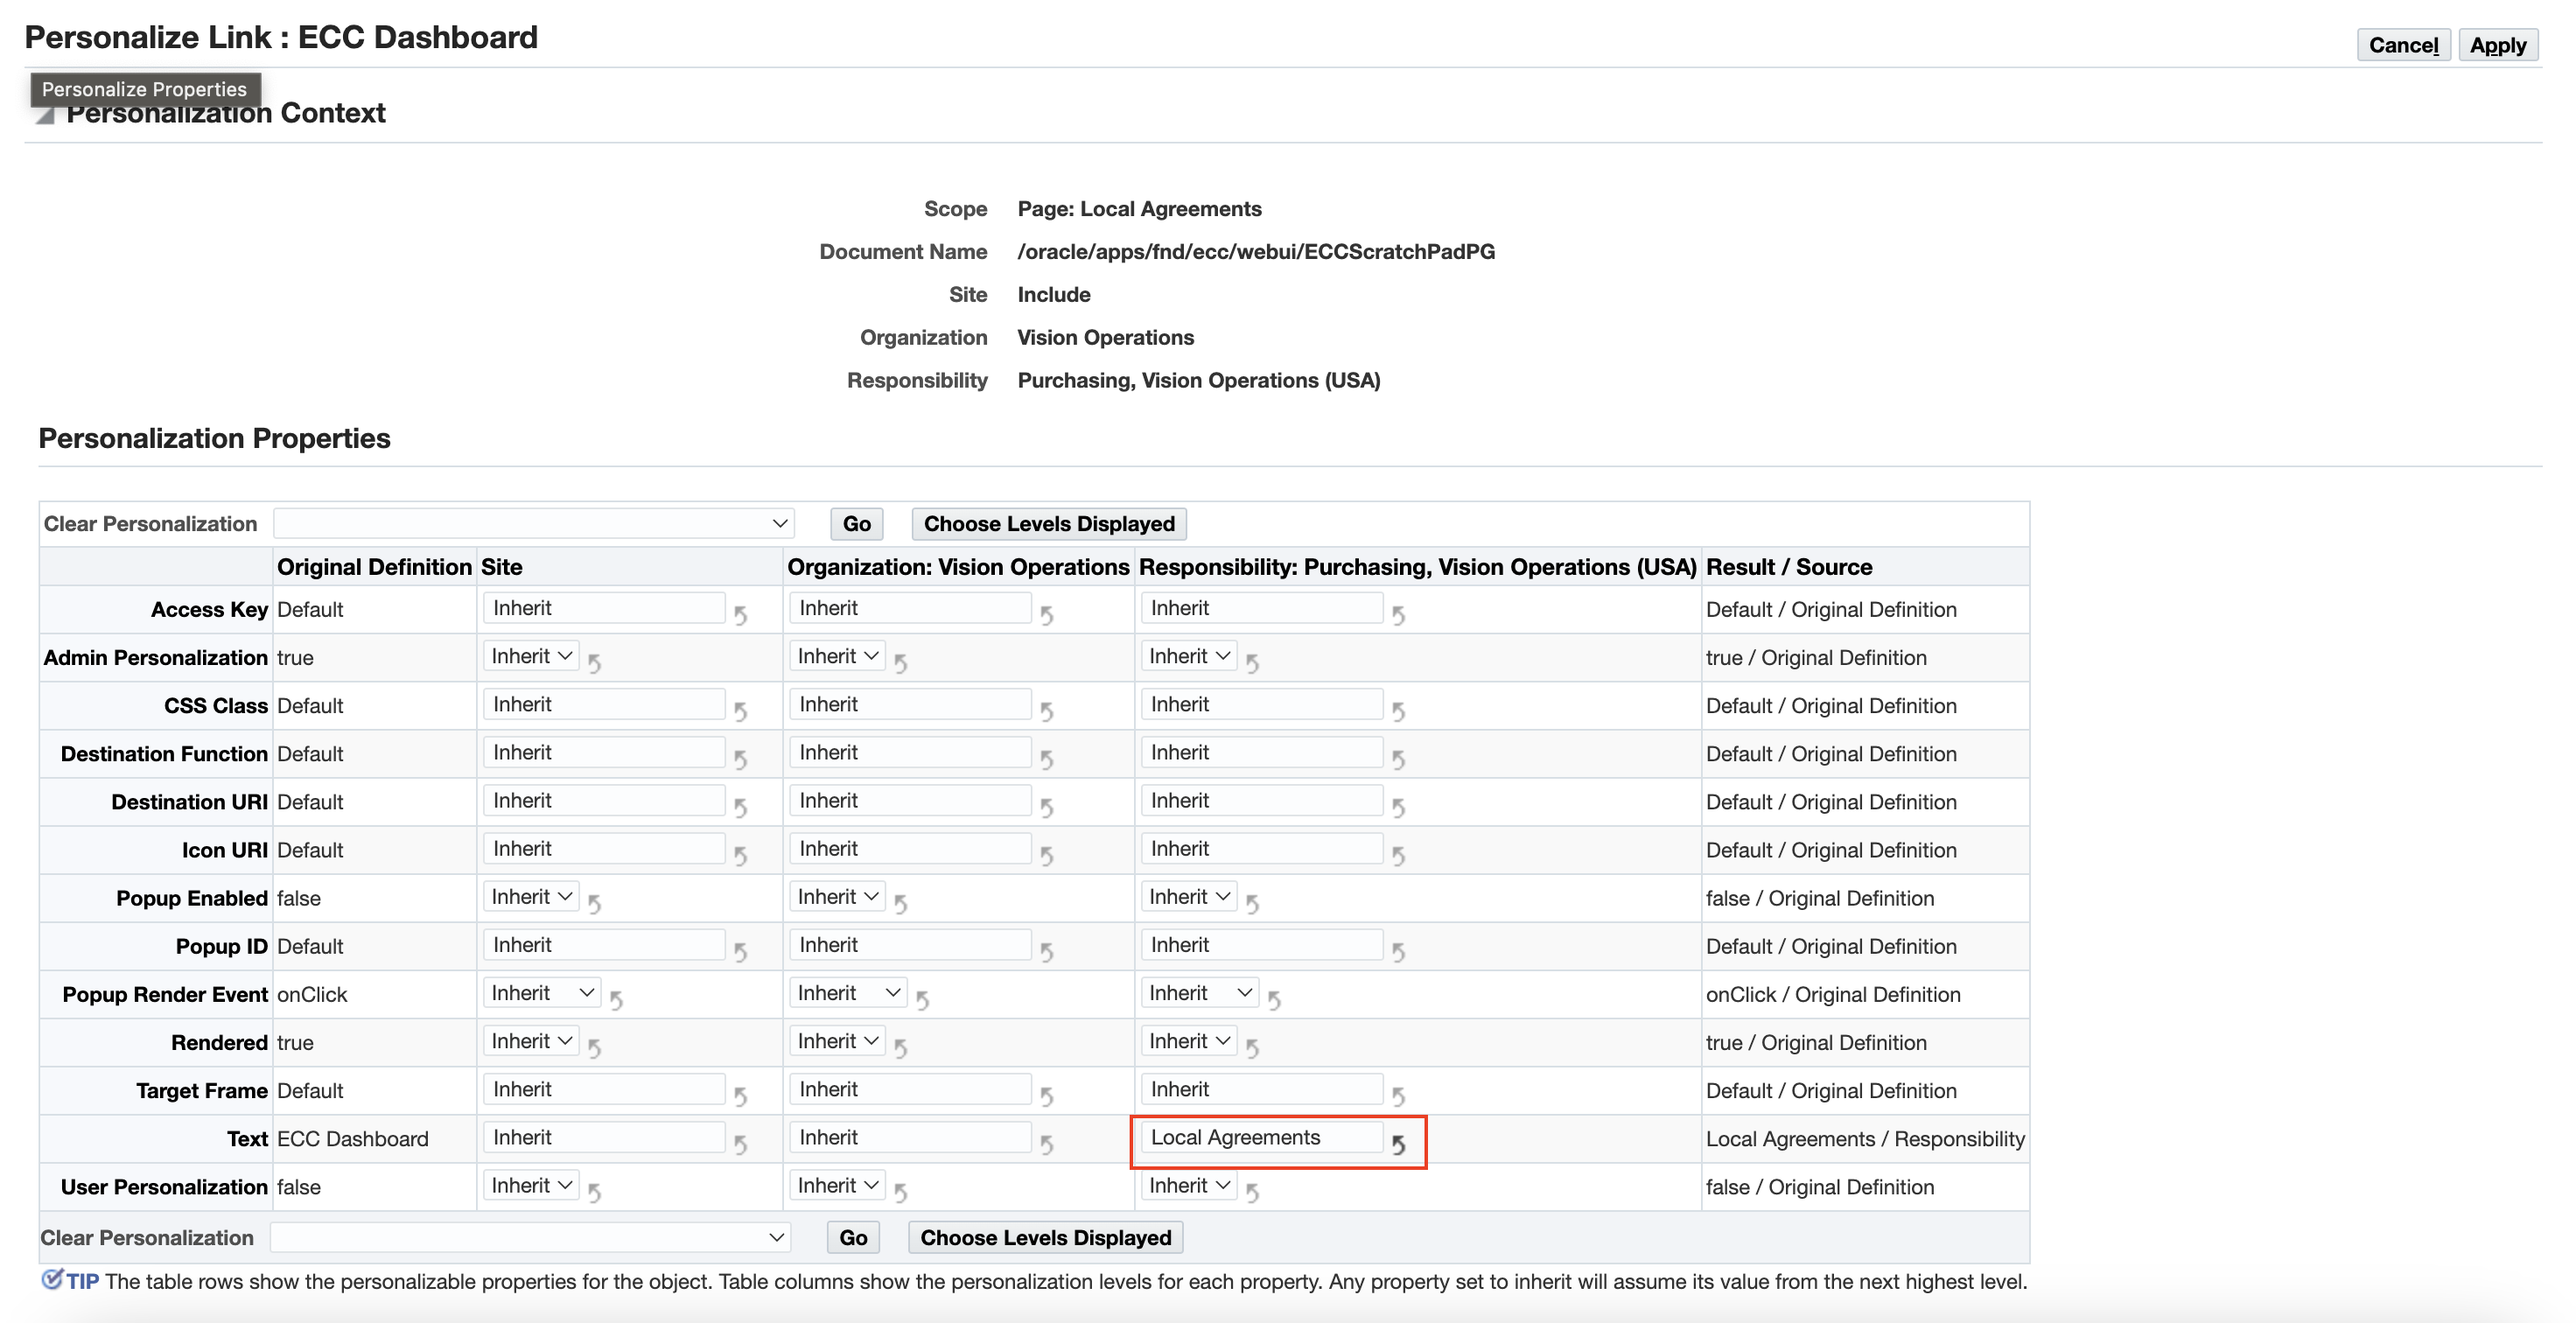
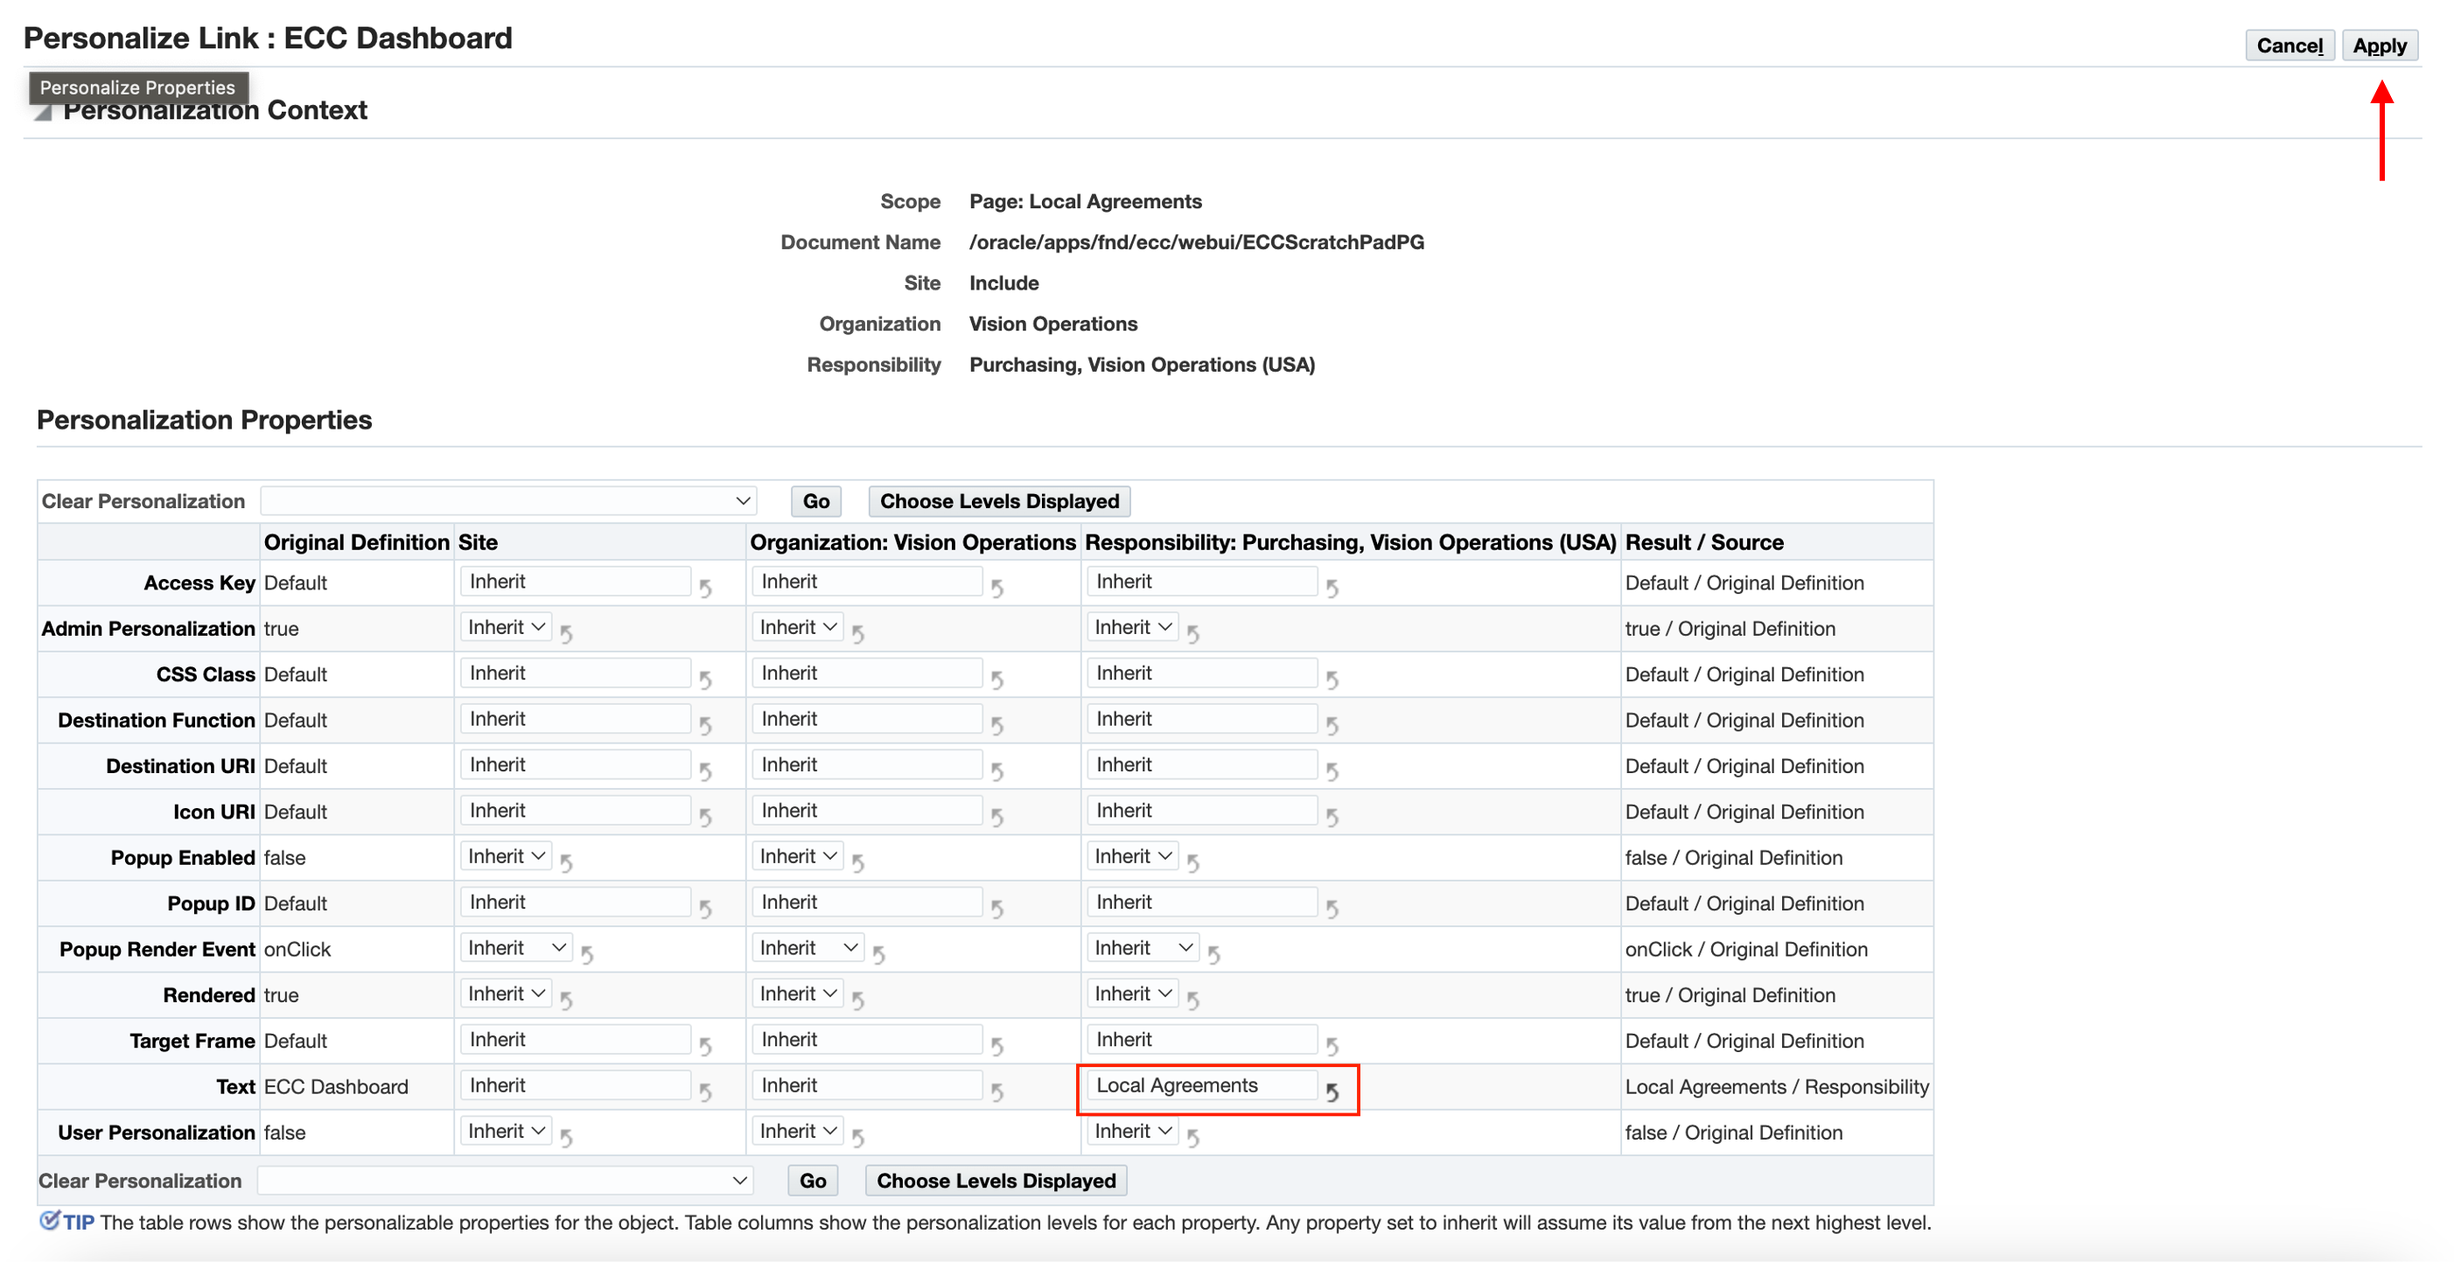
Added new screenshots for easy navigation

diff --git a/ecc-developer-hol/query/eccpersonalizationtemplate/eccpersonalizationtemplate.md b/ecc-developer-hol/query/eccpersonalizationtemplate/eccpersonalizationtemplate.md
@@ -56,7 +56,8 @@ Password: welcome1
 2.	The FND Function for Local Agreements Dashboard has been created in Lab 5 - Task 7
 
 3.	Add ECC Personalization Template to Procurement Command Center Menu:
-    * Navigate to Functional Administrator Responsibility -> Core Services -> Menus
+    * Navigate to EBS Home Page -> Functional Administrator responsibility -> Core Services -> Menus
+        ![Menus](../images/menus.png "Menus")
     * Search with code as 
                                         ```
   	    <copy>PO_PCC_MAIN</copy>
@@ -74,7 +75,8 @@ Password: welcome1
         * Click on “Apply” button to save the menu
         ![Add Function to Menu](../images/a11s4.png "Add Function to Menu")
 3.	Create Permission Set for Local Agreements:
-    * Navigate to Functional Administrator Responsibility -> Security -> Permission Sets
+    * Navigate to EBS Home Page -> Functional Administrator responsibility -> Security -> Permission Sets
+        ![Permission Sets](../images/permissionsetsteps.png "Permission Sets")
     * Click on the “Create Permission Set” button
     * Provide the below details in “Create Permission Set” page
         * Name: 
@@ -93,7 +95,8 @@ Password: welcome1
     * Click on “Apply” button to create the permission set
         ![Create Permission Set](../images/a11s5.png "Create Permission Set")
 4.	Create Grant for Local Agreements:
-    * Navigate to Functional Administrator Responsibility -> Security -> Grants
+    * Navigate to EBS Home Page -> Functional Administrator responsibility -> Security -> Grants
+        ![Grants](../images/grants.png "Grants")
     * Click on “Create Grant” button
     * Provide the below details:
         * Name: 
@@ -118,7 +121,8 @@ Password: welcome1
         ![Create Grant](../images/a11s6.png "Create Grant")
 
 5. Clear Application Cache:
-    * Navigate to Functional Administrator -> Core Services -> Caching Framework -> Global Configuration
+    * Navigate to EBS Home Page -> Functional Administrator responsibility -> Core Services -> Caching Framework -> Global Configuration
+        ![Clear Cache](../images/clearcachesteps.png "Clear Cache")
     * Click on “Clear All Cache” button and then click on "Yes"
         ![Clear Cache](../images/ss110.png "Clear Cache")
 
@@ -163,10 +167,11 @@ Password: welcome1
 8. Set the subtab title by clicking on Personalize icon for first “Sub tab link”
         ![Update Tab Title](../images/a11s13.png "Update Tab Title")
 
-9. Update the “Text” property to “Local Agreements”
+9. Update the “Text” property to “Local Agreements”, and then click on the "Apply" button
         ![Update Tab Title](../images/a11s14.png "Update Tab Title")
 
 10. Click on “Return to Application” to access the dashboard
+        ![Return to Application](../images/localagrreturnlink.png "Return to Application")
         ![Local Agreements Dashboard](../images/a11s15.png "Local Agreements Dashboard")
 
 11.	To add other shipped dashboards, like Agreements dashboard or Requisitions dashboard in the same page, the user needs to follow the same personalization process for other sub tabs available in the ECC Personalization Template personalization.
@@ -198,8 +203,8 @@ Password: welcome1
         ![Update Rich Container Details](../images/a11s19.png "Update Rich Container Details")
 
 17.	Set the subtab title by clicking on Personalize icon for second “Sub tab link”
-
-18.	Update the “Text” property to “Requisitions”
+        ![Requisitions Tab](../images/subtablink2.png "Requisitions Tab")
+18.	Update the “Text” property to “Requisitions”, and then click on the "Apply" button
         ![Update Tab Title](../images/a11s20.png "Update Tab Title")
 
 19.	Click on “Return to Application” to access the dashboards
@@ -294,7 +299,8 @@ Password: welcome1
 
 **Create a new Permission Set:**
 
-1.	Navigate to Functional Administrator Responsibility -> Security -> Permission Sets
+1.	Navigate to EBS Home Page -> Functional Administrator responsibility -> Security -> Permission Sets
+        ![Permission Sets](../images/permissionsetsteps.png "Permission Sets")
 2.	Click on “Create Permission Set”
 3.	Provide the below details in “Create Permission Set” page
     *	Name: 
@@ -321,7 +327,8 @@ Password: welcome1
 
 **Create a new Menu:**
 
-1.	Navigate to Functional Administrator Responsibility -> Core Services -> Menus
+1.	Navigate to EBS Home Page -> Functional Administrator responsibility -> Core Services -> Menus
+        ![Menus](../images/menus.png "Menus")
 2.	Click on “Create Navigation Menu”
 3.	Provide the below details in “Create Navigation Menu” page
     *	Name: 
@@ -348,8 +355,10 @@ Password: welcome1
 
 **Create a new Responsibility:**
 
-1.	Navigate to User Management Responsibility -> Responsibility
+1.	Navigate to EBS Home Page -> User Management responsibility -> Responsibility
+        ![Responsibility](../images/responsibilitypath.png "Responsibility")
 2.	Click on “Create Responsibility”
+        ![Create Responsibility](../images/createresponsibility.png "Create Responsibility")
 3.	Provide the below details in “Create Responsibility” page
     *	Responsibility Name: 
                                                                ```
@@ -383,8 +392,10 @@ Password: welcome1
 
 **Create a new Access role and Grant:**
 
-1.	Navigate to User Management Responsibility -> Roles & Role Inheritance
+1.	Navigate to EBS Home Page -> User Management responsibility -> Roles & Role Inheritance
+    ![Roles and Role Inheritance](../images/rolesandroleinheritance.png "Roles and Role Inheritance")
 2.	Click on “Create Role”
+    ![Create Role](../images/createrole.png "Create Role")
 3.	Provide the below details in “Create Role” page
     *	Application: 
                                                                ```
@@ -403,7 +414,9 @@ Password: welcome1
   	    <copy>P2P Access Role</copy>
             ```
 4.	Click on “Create Grant” button
+    ![Create Grant](../images/creategrantinrole.png "Create Grant")
 5.	Click on “Save and Proceed” button in the confirmation dialog to create the grant
+    ![Create Grant](../images/saveandproceedgrant.png "Create Grant")
 6.	Now, the user is navigated to “Create Grant” page
 7.	Provide the below details:
     *	Name: 
@@ -422,7 +435,7 @@ Password: welcome1
 
 **Run Workflow Background Process:**
 
-1.	Navigate to System Administration -> Schedule Requests
+1.	Navigate to EBS Home Page -> System Administration responsibility -> Schedule Requests
 2.	Provide the Program Name as “Workflow Background Process”
 3.	Under Parameters section, provide the below details:
     *	Process Deferred: Yes
@@ -434,15 +447,17 @@ Password: welcome1
 
 **Clear Application Cache:**
 
-1.	Navigate to Functional Administrator -> Core Services -> Caching Framework -> Global Configuration
-2.	Click on “Clear All Cache” button and then click on "Yes"
+1.	Navigate to EBS Home Page -> Functional Administrator responsibility -> Core Services -> Caching Framework -> Global Configuration
+    ![Clear Cache](../images/clearcachesteps.png "Clear Cache")
 
+2.	Click on “Clear All Cache” button and then click on "Yes"
     ![Clear Cache](../images/ss110.png "Clear Cache")
 
 
 **Assign Access Role to Responsibility:**
 
-1.	Navigate to User Management -> Roles & Role Inheritance
+1.	Navigate to EBS Home Page -> User Management responsibility -> Roles & Role Inheritance
+    ![Roles and Role Inheritance](../images/rolesandroleinheritance.png "Roles and Role Inheritance")
 2.	Search for “Procure to Pay Operations Manager” responsibility
 3.	Select the icon under “View In Hierarchy”
 
@@ -460,7 +475,8 @@ Password: welcome1
 
 **Assign the Responsibility to User:**
 
-1.	Navigate to User Management -> Users
+1.	Navigate to EBS Home Page -> User Management responsibility -> Users
+    ![Users](../images/userspath.png "Users")
 2.	Provide the User Name as “OPERATIONS” and click on “Go” button
 3.	Click on update icon in the results for OPERATIONS user
 4.	Click on “Assign Roles” button and add “Procure to Pay Operations Manager”
@@ -485,7 +501,8 @@ Password: welcome1
 
 **Clear Application Cache:**
 
-1.	Navigate to Functional Administrator -> Core Services -> Caching Framework -> Global Configuration
+1.	Navigate to EBS Home Page -> Functional Administrator responsibility -> Core Services -> Caching Framework -> Global Configuration
+    ![Clear Cache](../images/clearcachesteps.png "Clear Cache")
 2.	Click on “Clear All Cache” button and then click on "Yes"
 
     ![Clear Cache](../images/ss110.png "Clear Cache")

diff --git a/ecc-developer-hol/query/basicextensibility/basicextensibility.md b/ecc-developer-hol/query/basicextensibility/basicextensibility.md
@@ -82,7 +82,10 @@ This concludes this task, we successfully extended Indirect Procurement dashboar
 Password: welcome1
     ```
 2.	Create a new FND Function for custom Indirect Procurement Dashboard:
-     * Navigate to Functional Administrator -> Core Services -> Functions
+     * Navigate to EBS Home Page -> Functional Administrator responsibility -> Core Services -> Functions
+        ![Functional Administrator](../images/functionaladministratorpath.png "Functional Administrator")
+        ![Functions Menu](../images/functions.png "Functions Menu")
+
      * Search with Code as 
                                                             ```
   	    <copy>PO_PCC_ECC_IND_PROC</copy>
@@ -115,7 +118,8 @@ Password: welcome1
           ![Create Function](../images/b113.png "Create Function") 
 
 3.	Add the new FND Function to PO\_PCC\_HOME\_PAGE menu
-     * Navigate to Functional Administrator Responsibility -> Core Services -> Menus
+     * Navigate to EBS Home Page -> Functional Administrator responsibility -> Core Services -> Menus
+        ![Menus](../images/menus.png "Menus")
      * Search with code as
                                        ```
   	    <copy>PO_PCC_HOME_PAGE</copy>
@@ -132,9 +136,10 @@ Password: welcome1
      * Click on “Apply” button to save the menu
           ![Add Function to Menu](../images/b115.png "Add Function to Menu")
 4.  Clear Application Cache:
-    * Navigate to Functional Administrator -> Core Services -> Caching Framework -> Global Configuration
+    * Navigate to EBS Home Page -> Functional Administrator responsibility -> Core Services -> Caching Framework -> Global Configuration
+        ![Clear Cache](../images/clearcachesteps.png "Clear Cache")
     * Click on “Clear All Cache” button and then click on "Yes"
-    ![Clear Cache](../images/ss110.png "Clear Cache")
+        ![Clear Cache](../images/ss110.png "Clear Cache")
 
 ## Task 3: EBS OA Personalization 
 1. Login to EBS apps (From the browser URL navigate to http://apps.example.com:8000) with below credentials

diff --git a/ecc-developer-hol/query/advancedextensibility/advancedextensibility.md b/ecc-developer-hol/query/advancedextensibility/advancedextensibility.md
@@ -684,7 +684,9 @@ In this task, we will replace the shipped "Agreements" dashboard with the custom
 Password: welcome1
     ```
 2.	Create a new FND Function for Local Agreements Dashboard:
-    * Navigate to Functional Administrator -> Core Services -> Function
+    * Navigate to EBS Home Page -> Functional Administrator responsibility -> Core Services -> Functions
+        ![Functional Administrator](../images/functionaladministratorpath.png "Functional Administrator")
+        ![Functions Menu](../images/functions.png "Functions Menu")
     * Search with Code as: 
                 ```
   	    <copy>PO_PCC_ECC_AGREEMENTS</copy>
@@ -712,7 +714,8 @@ Password: welcome1
         ![Create Function](../images/a11s3.png "Create Function") 
 
 3.	Add the new FND Function to Procurement Command Center Menu:
-    * Navigate to Functional Administrator Responsibility -> Core Services -> Menus
+    * Navigate to EBS Home Page -> Functional Administrator responsibility -> Core Services -> Menus
+        ![Menus](../images/menus.png "Menus")Menus
     * Search with code as 
                                         ```
   	    <copy>PO_PCC_MAIN</copy>
@@ -727,7 +730,8 @@ Password: welcome1
         ![Add Function to Menu](../images/arbac1.png "Add Function to Menu")
 
 4. Clear Application Cache:
-    * Navigate to Functional Administrator -> Core Services -> Caching Framework -> Global Configuration
+    * Navigate to EBS Home Page -> Functional Administrator responsibility -> Core Services -> Caching Framework -> Global Configuration
+        ![Clear Cache](../images/clearcachesteps.png "Clear Cache")
     * Click on “Clear All Cache” button and then click on "Yes"
         ![Clear Cache](../images/ss110.png "Clear Cache")
 
